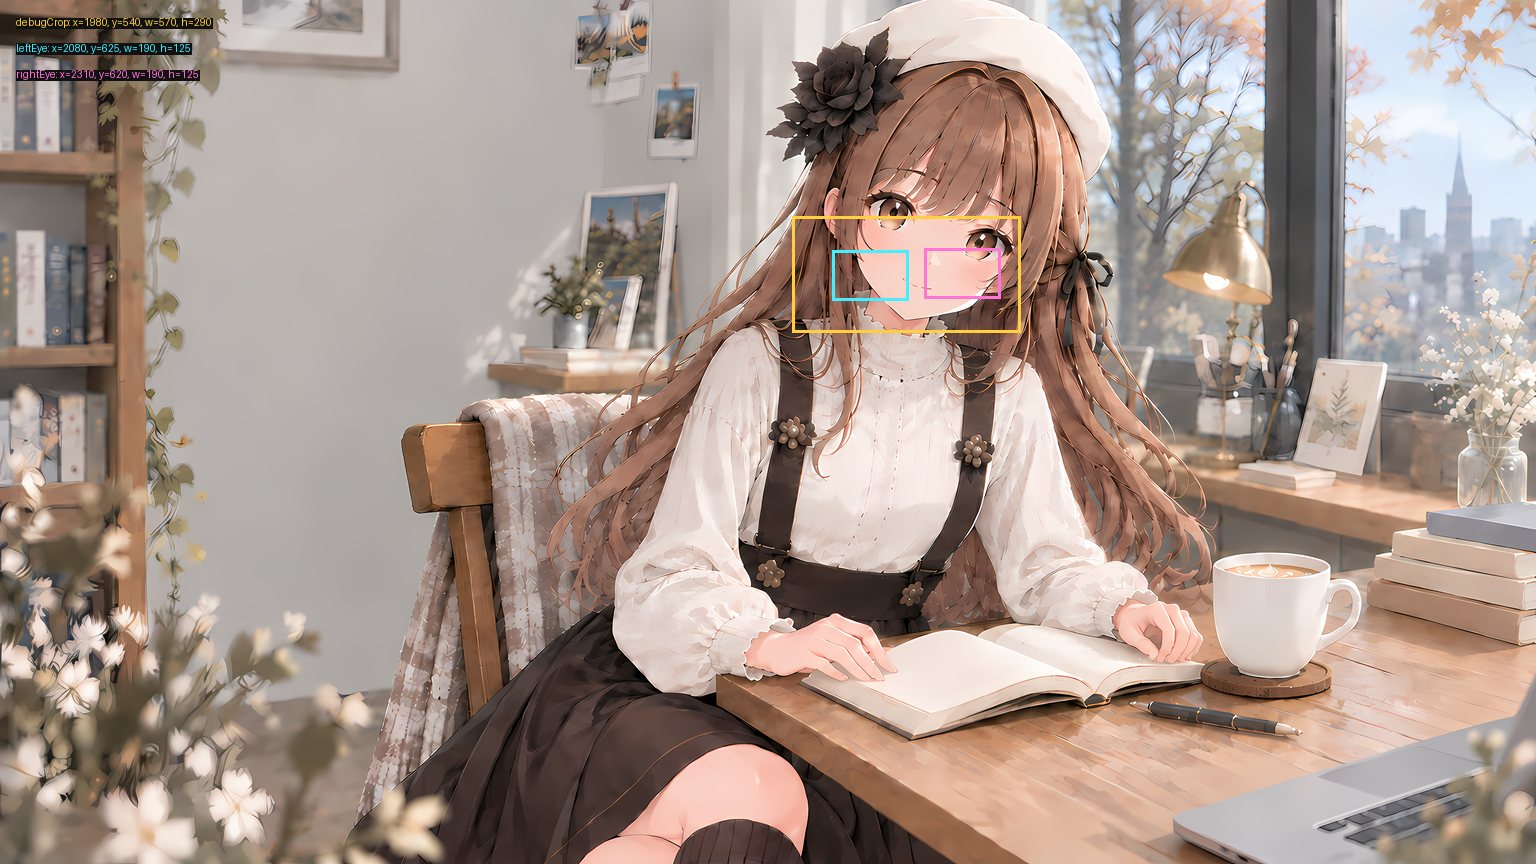
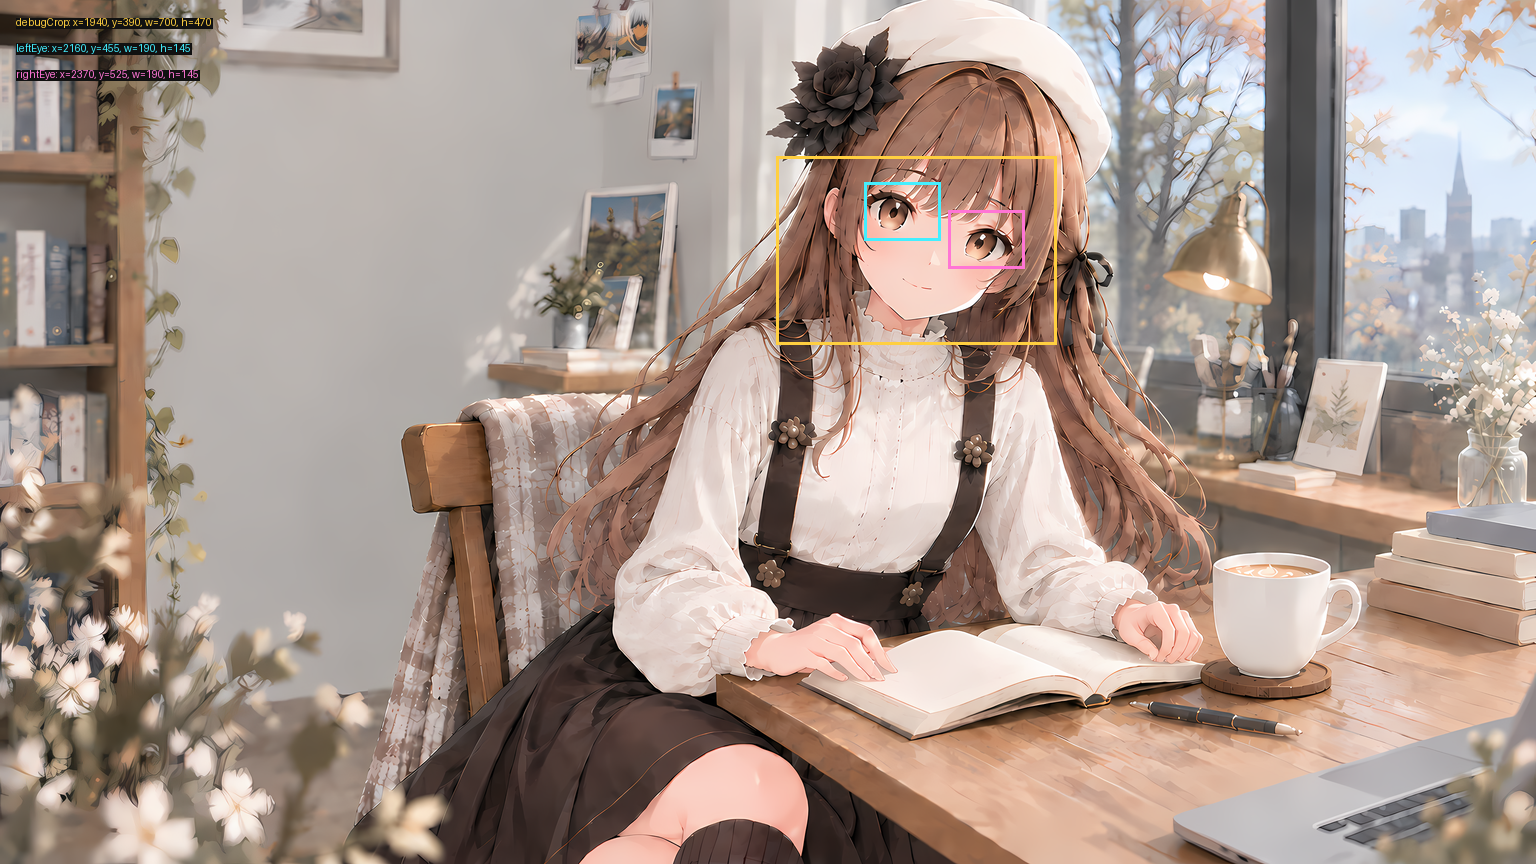
Calibrate blink input crop with second revision coordinates

Changed region(s): [[0.5, 0.2188, 0.6875, 0.4062], [0.5312, 0.1562, 0.6875, 0.2188]]

diff --git a/scripts/prepare-blink-crop.py b/scripts/prepare-blink-crop.py
@@ -12,7 +12,7 @@ REGIONS = ROOT / "docs/blink-regions.json"
 CROP = ROOT / "work/blink/source/hero-eye-context-open.png"
 PREVIEW = ROOT / "work/blink/generated/hero-eye-context-debug-preview.png"
 NOTES = ROOT / "work/blink/notes/blink-review.md"
-DEFAULT = {"x": 1980, "y": 540, "width": 570, "height": 290}
+DEFAULT = {"x": 1940, "y": 390, "width": 700, "height": 470}
 
 
 def valid_box(region, size):
@@ -107,11 +107,10 @@ def main():
 脚本已重新读取输出，验证尺寸、像素模式及所有像素字节与原图裁切一致。
 
 `hero-eye-context-debug-preview.png` 仅供人工检查裁切位置，不进入运行时。
-双眼框沿用现有候选坐标，不代表最终分割结果。
+双眼框仅用于调试显示，仍非最终 Blink coverage mask。
 
-人工验收记录（当前源图与现有坐标）：裁切上边界截断了画面左侧眼睛上部，
-未完整保留双眼和眉毛；现有双眼候选框偏低。按本次指定坐标原样输出，
-未擅自调整。后续作为编辑目标前，需要确认此上下文范围是否足够。
+人工验收状态：本轮使用第二版人工校准候选坐标，等待再次人工验收。
+debugCrop 是本轮主要生图输入候选，目标是保留完整双眼、眉眼、鼻梁及附近刘海上下文。
 
 本次仓库验证：`npm run build`、`npm run typecheck` 均通过。
 

diff --git a/work/blink/notes/blink-review.md b/work/blink/notes/blink-review.md
@@ -3,8 +3,8 @@
 - 输入：`work/blink/source/hero-4k-digital-art.png`
 - 裁切输出：`work/blink/source/hero-eye-context-open.png`
 - 原图尺寸：`3840 x 2160`
-- 裁切坐标：`x=1980, y=540, width=570, height=290`（左上角为原点，右/下边界不包含）
-- 裁切图尺寸：`570 x 290`
+- 裁切坐标：`x=1940, y=390, width=700, height=470`（左上角为原点，右/下边界不包含）
+- 裁切图尺寸：`700 x 470`
 - `docs/blink-regions.json`：已读取；使用其中的 debugCrop。
 - 调试预览：`work/blink/generated/hero-eye-context-debug-preview.png`（缩略全图及彩色候选框）
 
@@ -13,11 +13,10 @@
 脚本已重新读取输出，验证尺寸、像素模式及所有像素字节与原图裁切一致。
 
 `hero-eye-context-debug-preview.png` 仅供人工检查裁切位置，不进入运行时。
-双眼框沿用现有候选坐标，不代表最终分割结果。
+双眼框仅用于调试显示，仍非最终 Blink coverage mask。
 
-人工验收记录（当前源图与现有坐标）：裁切上边界截断了画面左侧眼睛上部，
-未完整保留双眼和眉毛；现有双眼候选框偏低。按本次指定坐标原样输出，
-未擅自调整。后续作为编辑目标前，需要确认此上下文范围是否足够。
+人工验收状态：本轮使用第二版人工校准候选坐标，等待再次人工验收。
+debugCrop 是本轮主要生图输入候选，目标是保留完整双眼、眉眼、鼻梁及附近刘海上下文。
 
 本次仓库验证：`npm run build`、`npm run typecheck` 均通过。
 
